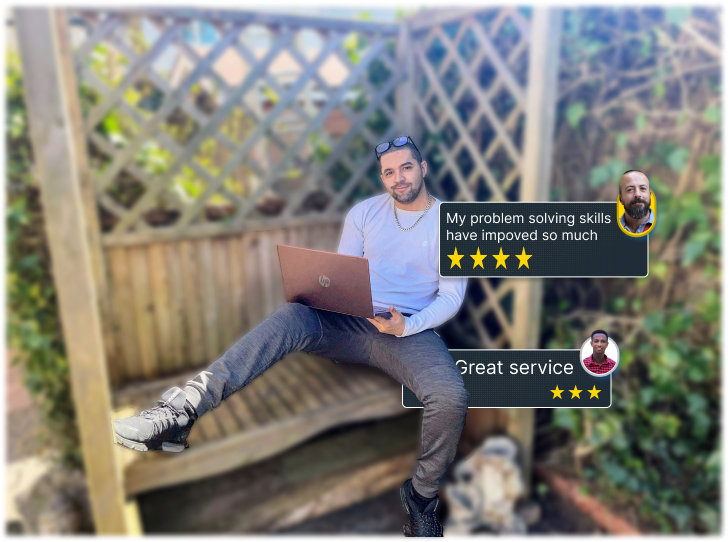
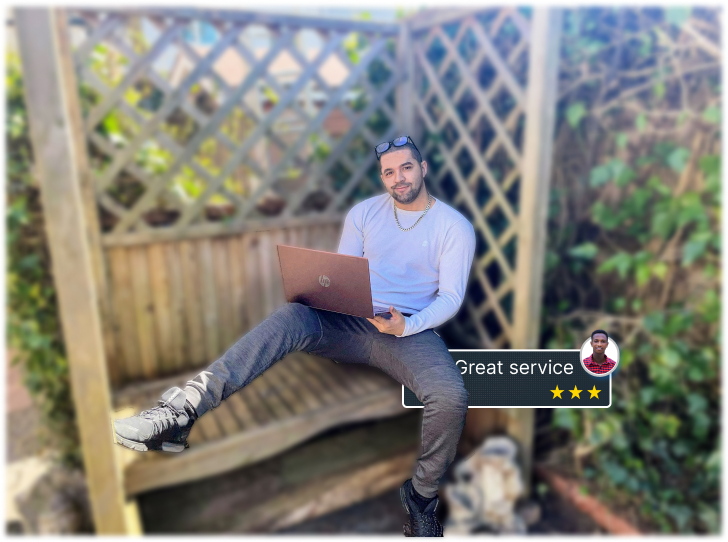
added responsiveness to the latest work section

Changed region(s): [[0.6044, 0.2952, 0.9066, 0.5314], [0.6346, 0.6199, 0.7857, 0.6494]]

diff --git a/Components/LatestWork/LatestWork.js b/Components/LatestWork/LatestWork.js
@@ -11,7 +11,7 @@ const LatestWork = ({ latestWorkImg }) => {
 
   return (
     <main className={style.Container} >
-      <div className={style.Container_section} data-aos="fade-right">
+      <div className={style.Container_section}>
         <section className={style.Container_section_Left}>
           <div className={style.Label}>
             <h2>Latest</h2>
@@ -21,7 +21,7 @@ const LatestWork = ({ latestWorkImg }) => {
 
             {latestWorkImg && latestWorkImg.map((file, index) => {
 
-              return (
+              return index<5&& (
                 <div key={index} className={style.ImageBox} >
                   <Image
                     style={{ position: "absolute", borderRadius: "10px" }}
@@ -37,6 +37,7 @@ const LatestWork = ({ latestWorkImg }) => {
         </section>
         <section className={style.Container_section_Right}>
           <TestimonialImageComp src={"/images/testimonials/Testimonial3.png"} top="2%" right="2%" />
+          <TestimonialImageComp src={"/images/testimonials/Testimonial4.png"} top="25%" right="50%" delay={"1s"} />
         </section>
       </div>
     </main>

diff --git a/Components/LatestWork/LatestWork.module.css b/Components/LatestWork/LatestWork.module.css
@@ -16,7 +16,7 @@
   position: relative;
 }
 .Container_section_Left {
-  border: solid 3px #23c7a7;
+  border: solid 4px #23c7a7;
 
   display: flex;
   flex-direction: column;
@@ -98,9 +98,19 @@
   background-image: url("/images/jordanImg2.jpg");
   background-size: cover;
   background-position: center;
-  border: solid 3px #ffd700;
+  border: solid 4px #ffd700;
   background-color: #2f363c;
   background-position: center;
+}
+
+@media only screen and (max-width: 1000px) {
+  .Container_section_Right {
+    display: none;
+  }
+  .Container_section_Left{
+    width: 100%;
+    clip-path: polygon(0% 0%, 100% 0%, 100% 100%, 0% 100%);
+  }
 }
 
 @media only screen and (max-width: 770px) {

diff --git a/Components/ImageComponent/TestimonialImageComp.js b/Components/ImageComponent/TestimonialImageComp.js
@@ -2,7 +2,7 @@ import Image from "next/image";
 import styled from "./Testimonial.module.css"
 const TestimonialImageComp = ({ src, top, right,delay}) => {
   return (
-    <span className={styled.Container} style={{  right: right, top: top, zIndex: 1, animationDelay:delay }} >
+    <span className={styled.Container} style={{  right: right, top: top, zIndex: 5, animationDelay:delay }} >
       <Image
         height="94px"
         width="223px"
